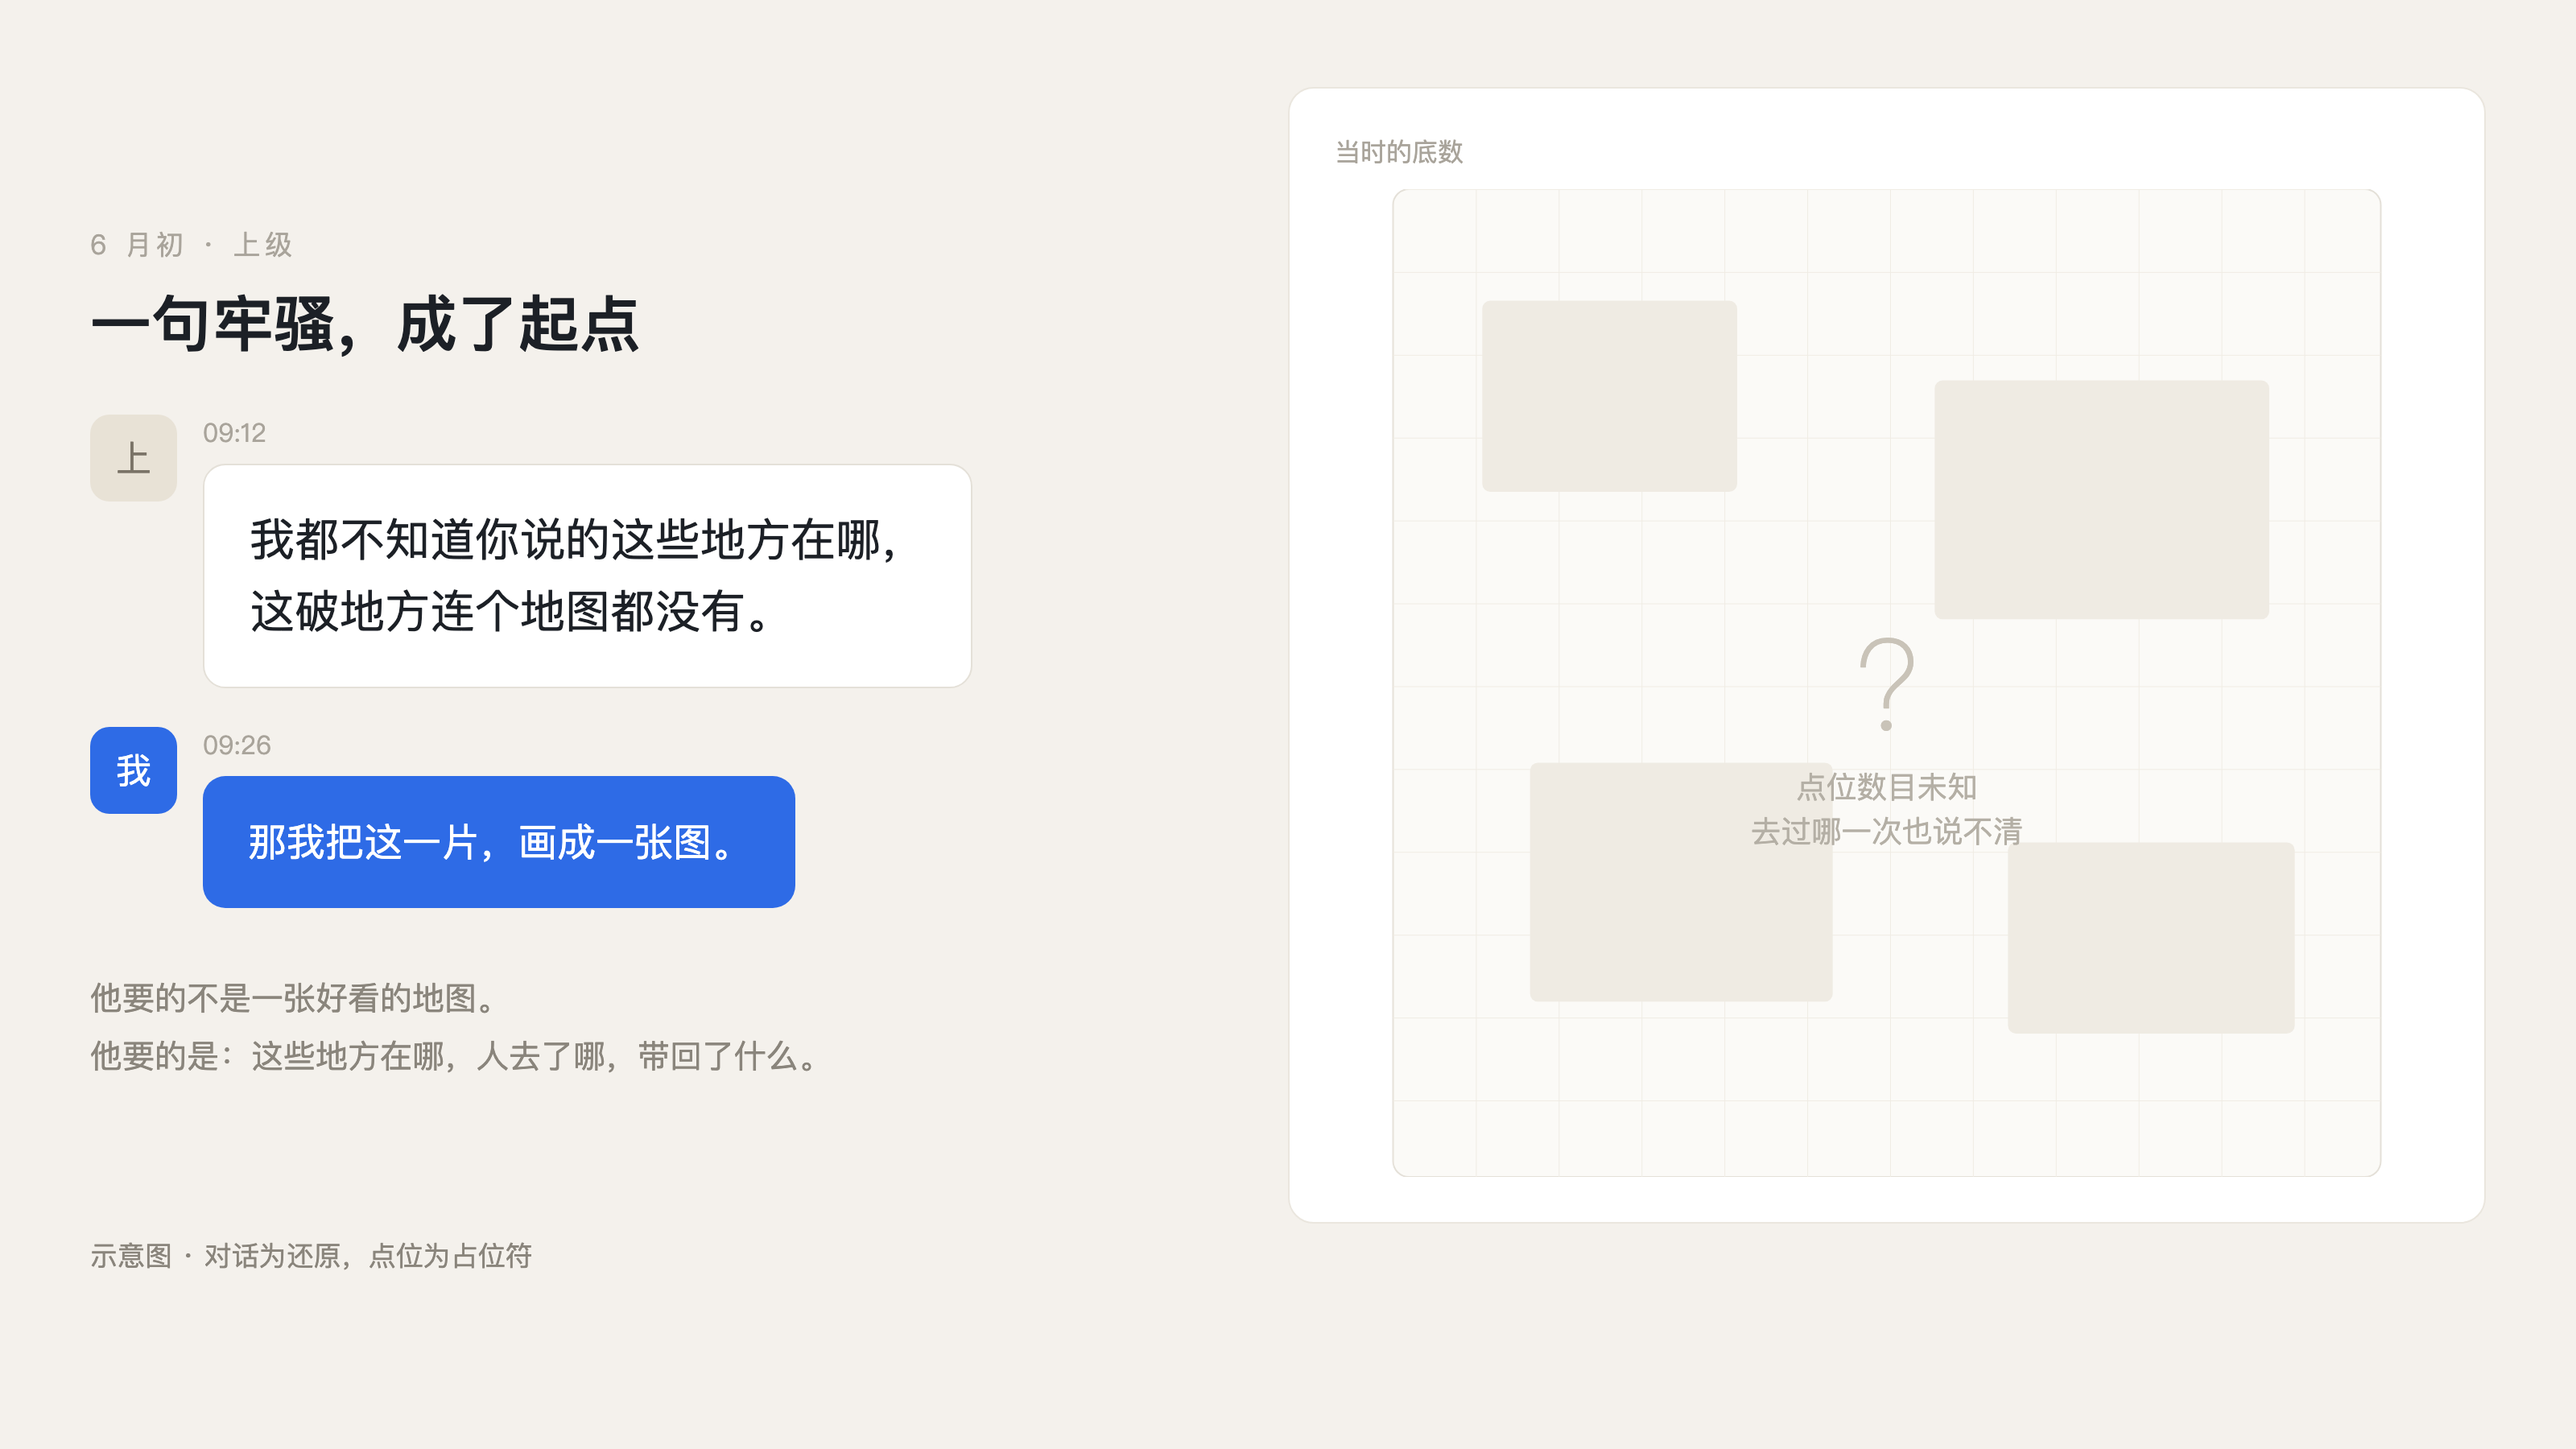
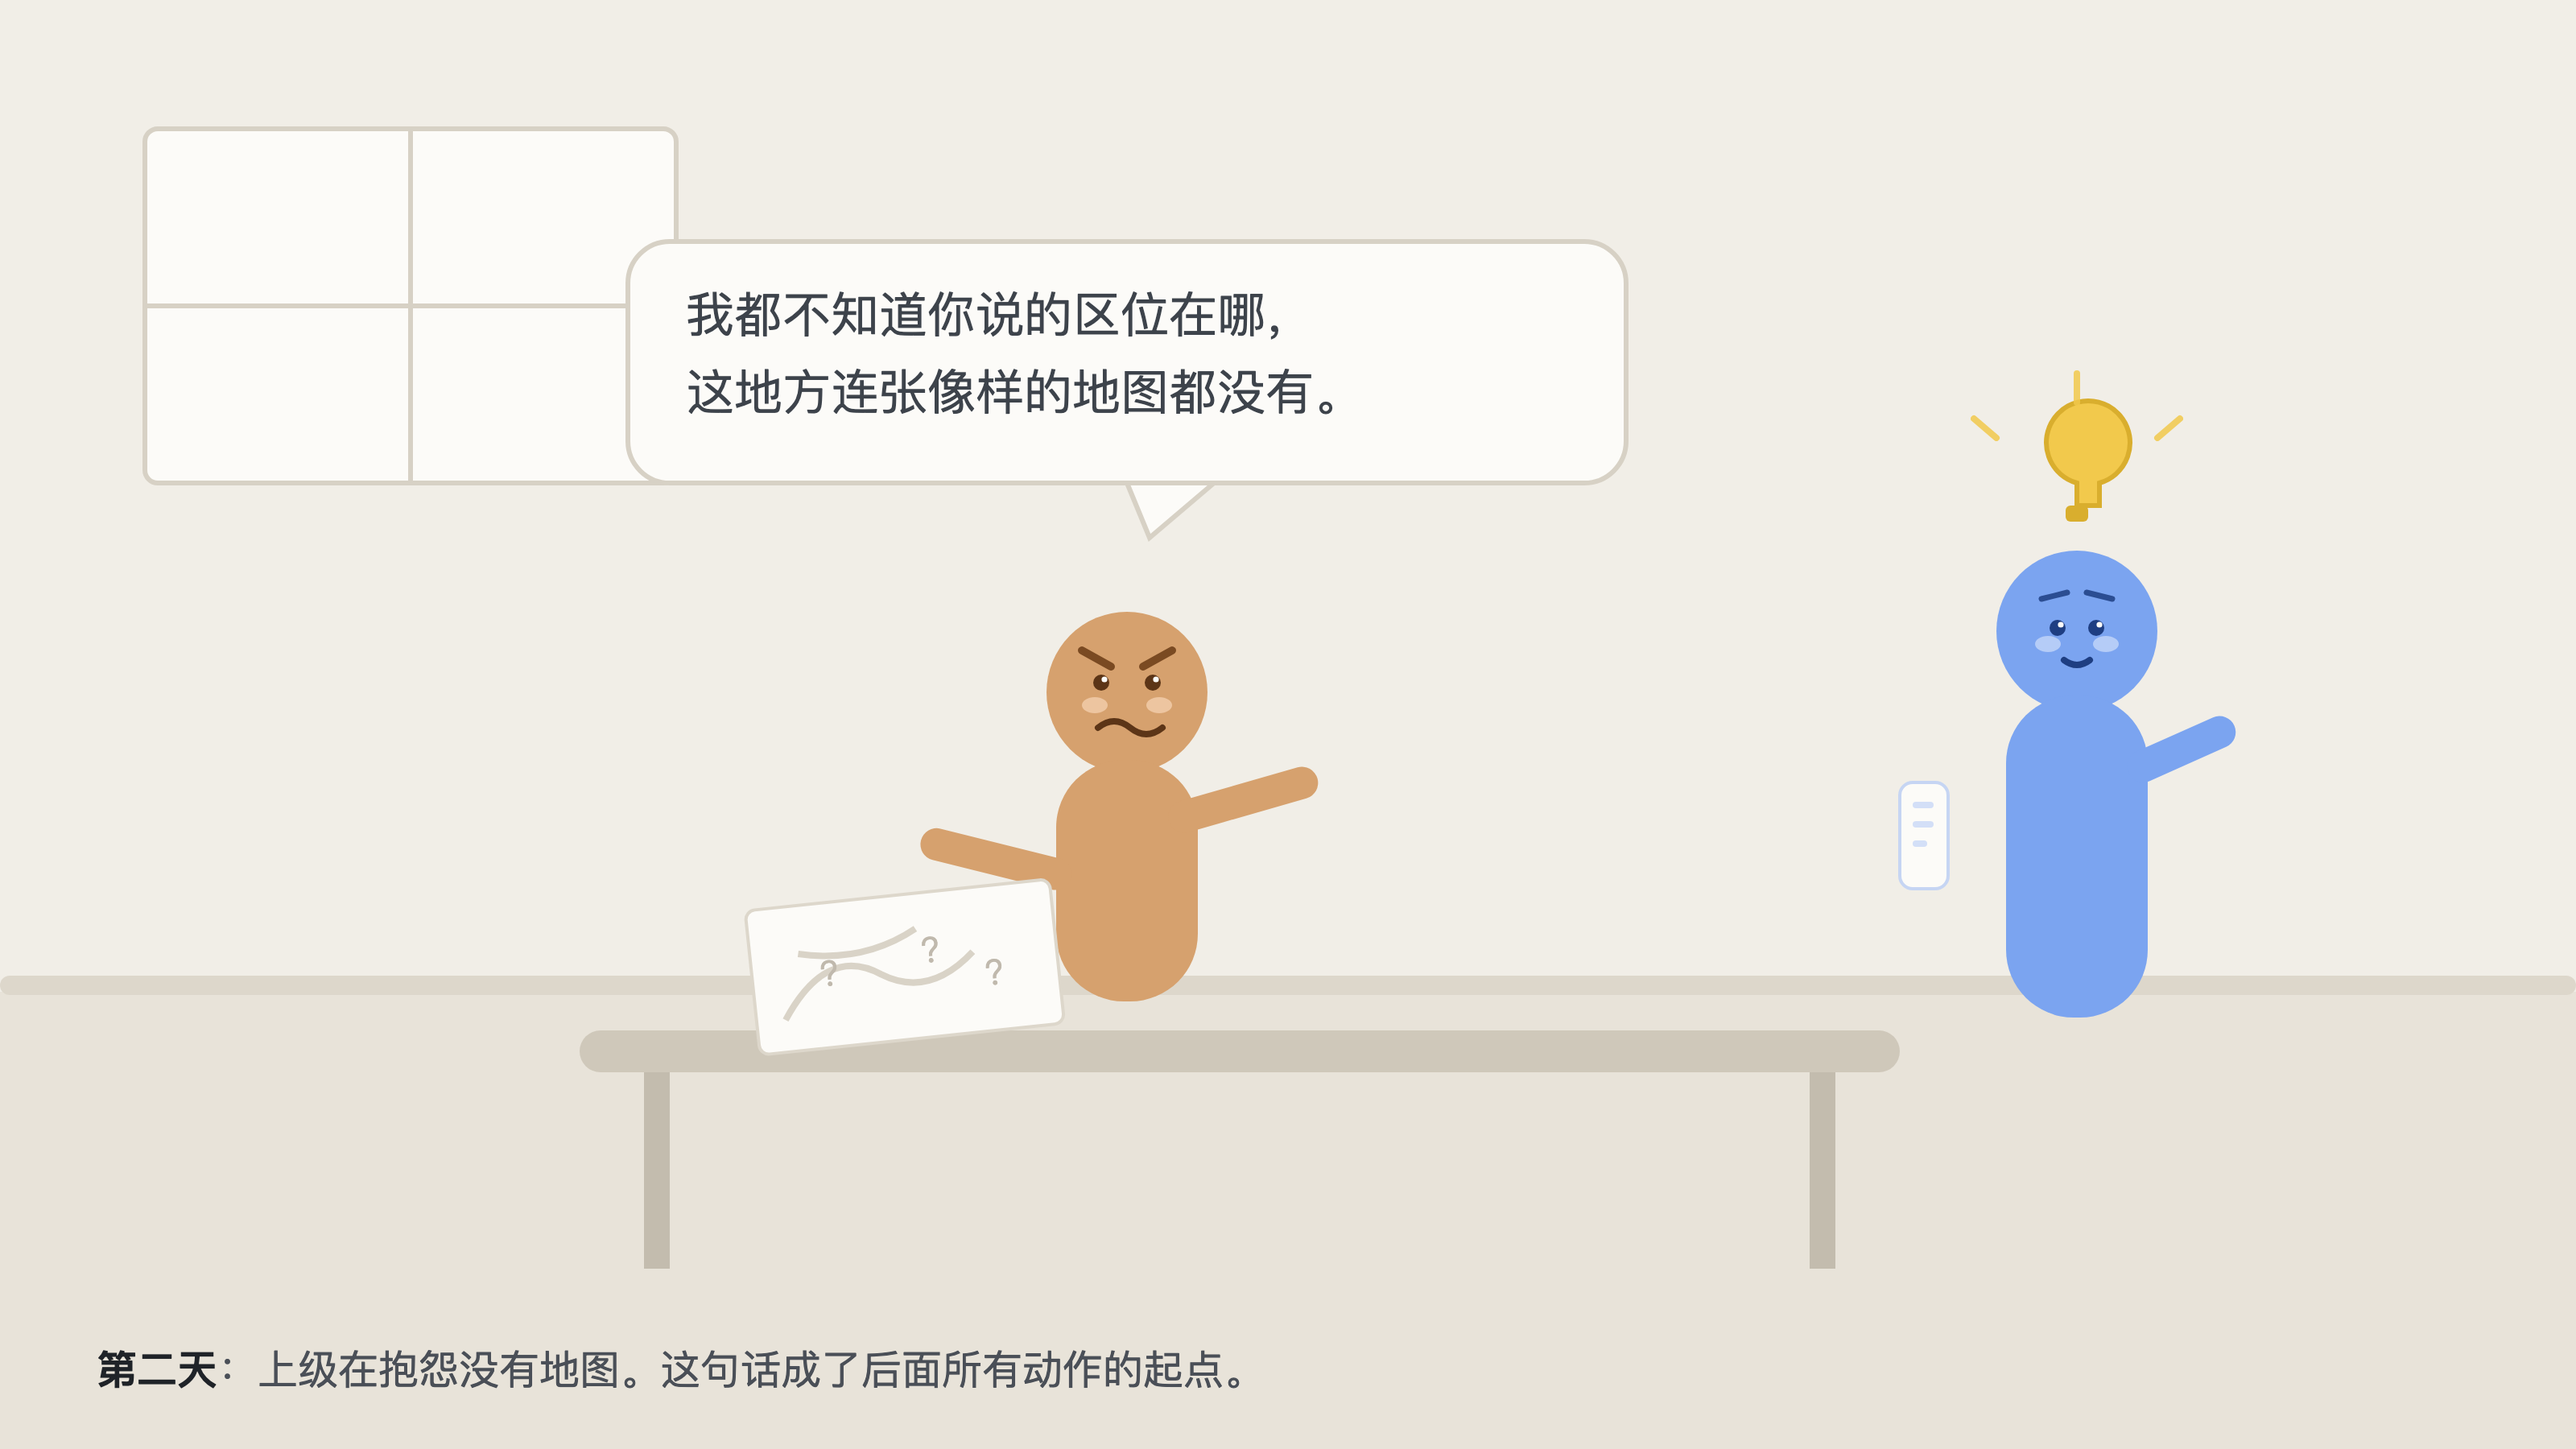
文案：上级那句牢骚与我的回应改成更准确的说法

diff --git a/assets/03-一句牢骚-src.html b/assets/03-一句牢骚-src.html
@@ -34,8 +34,8 @@ html,body{margin:0;background:#F4F1EC;font-family:"PingFang SC","Helvetica Neue"
 <g>
 <rect x="390" y="150" width="620" height="150" rx="26" fill="#FCFBF8" stroke="#D7D1C5" stroke-width="3"/>
 <path d="M700 300 l14 34 l40 -34 z" fill="#FCFBF8" stroke="#D7D1C5" stroke-width="3"/>
-<text x="426" y="206" font-size="30" fill="#3D434B">我都不知道这些地方在哪，</text>
-<text x="426" y="254" font-size="30" fill="#3D434B">这破地方连个地图都没有。</text>
+<text x="426" y="206" font-size="30" fill="#3D434B">我都不知道你说的区位在哪，</text>
+<text x="426" y="254" font-size="30" fill="#3D434B">这地方连张像样的地图都没有。</text>
 </g>
 
 <!-- 桌子 -->

diff --git a/README.md b/README.md
@@ -14,13 +14,13 @@
 
 **当时的事实。** 加入团队第一天，团队处在三种缺失里：过程记录不清晰（谁出门、去哪、跟谁说了什么，全靠口头汇报且不核实）；没有能力建设（没有培训、没有规则、没有评估）；没有复盘依据（开会凭感觉，两个关键指标被集体规避）。
 
-一周后我和上级沟通区域情况，听到一句牢骚：我都不知道你说的这些地方在哪。
+一周后我和上级沟通区域情况，听到一句牢骚：我都不知道你说的区位在哪，这地方连张像样的地图都没有。
 
 **在权衡什么。** 手上有两个可以动的地方：点位和话术。点位是业务结构，定下来能一直用；话术在人身上，人换了话术就废。而我手里最缺的是点位，不知道该把有限的人放在哪。
 
 **定了什么。** 先做一张地图。第一次跟 AI 提要求只用了一段话，四十多个字，说清三件事：做什么、给谁看、边界在哪。3 小时后，600 多个点位落在一张可缩放的地图上，成本 14 元。第二个 3 小时，加上人员、区域、带回情况，它变成了一份地推管理系统，两天迭代 11 版。
 
-**后来对不对。** 对。判断依据不是地图好看，是团队开会第一次有了能指的东西。上级再问"这些地方在哪"，我能把屏幕转过去。
+**后来对不对。** 对。判断依据不是地图好看，是团队开会第一次有了能指的东西。上级再问「区位在哪」，我能把屏幕转过去。
 
 **可以拿走的。** `prompts/01-建图.md`：把"我要什么"写到 AI 能照做的程度的那份模板。三个必填——范围、字段、验收标准。少一个，出来的东西必然返工。
 

diff --git a/docs/01-起点与地图.md b/docs/01-起点与地图.md
@@ -26,7 +26,7 @@
 
 就这么推了一个星期，我这个刚入行的新兵累计了 10 个潜客，一些人和一些事也在改变。但更大的改变，来自一次牢骚。
 
-6 月初的某天，我把大致的区域情况和上级沟通，听到了一句：我都不知道你说的这些区域在哪，这地方连个地图都没有。
+6 月初的某天，我把大致的区域情况和上级沟通，听到了一句：我都不知道你说的区位在哪，这地方连张像样的地图都没有。
 
 我心里忽然一动：一张把所有点位都做了标注、并且标明谁去了哪、做了什么、拿回了什么的地图，对当前的局面应该会有所转变。
 
